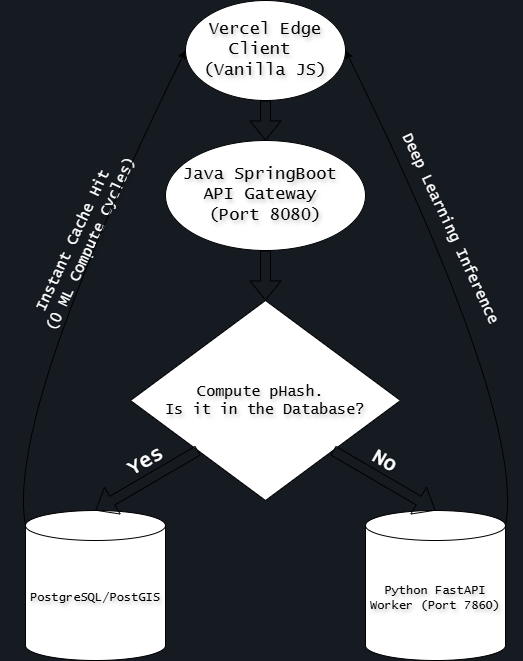
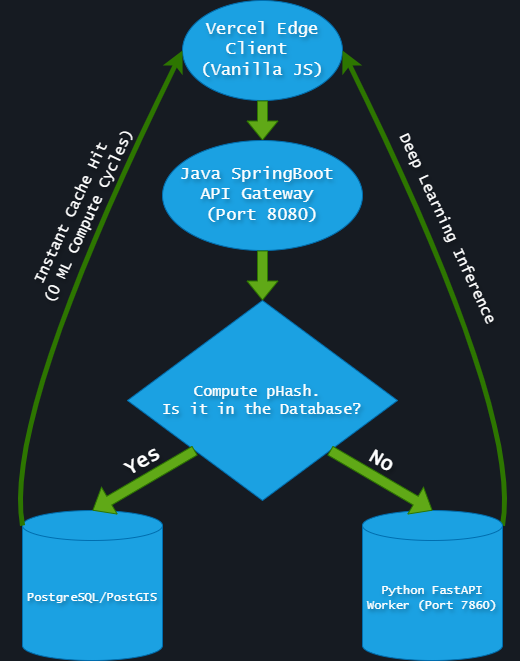
More and more fixes as testing is being done locally

diff --git a/frontend/assets/js/scanner.js b/frontend/assets/js/scanner.js
@@ -24,18 +24,30 @@ async function previewAndUpload(event) {
     formData.append("file", file);
 
     try {
-        // Pointing to the live cloud Edge Engine
-        const response = await fetch("https://ishansinha05-optichash-engine.hf.space/process", {
+        // [DEV MODE]: Pointing to the local Java Spring Boot Gateway
+        const response = await fetch("http://localhost:8080/process", {
             method: "POST",
             body: formData
         });
+        
+        // [PROD MODE]: Pointing to the live cloud Edge Engine
+        // const response = await fetch("https://ishansinha05-optichash-engine.hf.space/process", {
+        //     method: "POST",
+        //     body: formData
+        // });
         
         const data = await response.json();
         console.log("Gateway Response:", data);
 
         if (data.status === "success") {
             // Display title if available, otherwise display the raw model class ID
-            const matchName = (data.title !== undefined) ? data.title : "Class ID " + data.predicted_id;
+            let matchName = "";
+            if (data.title !== undefined) {
+                matchName = data.title;
+            } else {
+                matchName = "Class ID " + data.predicted_id;
+            }
+
             resultsDiv.innerText = " MATCH FOUND: " + matchName;
             
             routeIndicator.innerText = "Optimization Route: " + data.optimization_route.toUpperCase() + "\nCompute Footprint Saved: " + data.compute_cycles_saved;
@@ -48,7 +60,6 @@ async function previewAndUpload(event) {
         } else if (data.status === "error") {
             let errorImageHtml = "";
             
-            // Check if the backend threw the threshold rejection (Low confidence)
             // Check if the backend threw the threshold rejection (Low confidence)
             if (data.message.includes("Low confidence")) {
                 errorImageHtml = `<img src="assets/images/confusedspidey.jpg" alt="Confused Spider-Man" style="display: block; margin: 0 auto 15px auto; max-width: 180px; border-radius: 8px; border: 2px solid #dc3545;"><br>`;

diff --git a/gateway-java/src/main/java/com/comicbookapp/gateway/GatewayController.java b/gateway-java/src/main/java/com/comicbookapp/gateway/GatewayController.java
@@ -2,7 +2,6 @@ package com.comicbookapp.gateway;
 
 import com.fasterxml.jackson.databind.JsonNode;
 import com.fasterxml.jackson.databind.ObjectMapper;
-import com.fasterxml.jackson.databind.node.ObjectNode;
 import org.springframework.beans.factory.annotation.Autowired;
 import org.springframework.http.*;
 import org.springframework.util.LinkedMultiValueMap;
@@ -11,10 +10,8 @@ import org.springframework.web.bind.annotation.*;
 import org.springframework.web.client.RestTemplate;
 import org.springframework.web.multipart.MultipartFile;
 
-import java.util.Map;
-
 @RestController
-@RequestMapping("/api")
+@CrossOrigin(origins = "http://localhost:3000")
 public class GatewayController {
 
     @Autowired
@@ -22,21 +19,12 @@ public class GatewayController {
 
     private final ObjectMapper mapper = new ObjectMapper();
 
-    // The Fast Lookup Map: Translates Python's integer matrix output into frontend Titles
-    private static final Map<Integer, String> COMIC_CLASS_MAP = Map.of(
-        0, "Absolute Martian Manhunter",
-        1, "Absolute Batman",
-        2, "Transformers (Variant Cover)",
-        3, "Ultimate Spider-Man",
-        4, "Ben 10" 
-    );
-
     // Internal Docker network addresses
     private final String CPP_BOUNCER_URL = "http://phash_bouncer:8081/api/analyze-cover";
-    private final String PYTHON_BRAIN_URL = "http://ml_vision:8000/process";
+    private final String PYTHON_BRAIN_URL = "http://ml-python:7860/process";
 
-    // Endpoint explicitly matches the fetch('/api/scan-cover') call in scanner.js
-    @PostMapping("/scan-cover")
+    // Endpoint explicitly updated to match the fetch('/process') call in scanner.js
+    @PostMapping("/process")
     public ResponseEntity<String> processComic(@RequestParam("file") MultipartFile file) {
         try {
             byte[] fileBytes = file.getBytes();
@@ -71,16 +59,8 @@ public class GatewayController {
             HttpEntity<MultiValueMap<String, Object>> pythonRequest = new HttpEntity<>(body, pythonHeaders);
             ResponseEntity<String> pythonResponse = restTemplate.postForEntity(PYTHON_BRAIN_URL, pythonRequest, String.class);
 
-            // 4. Translate Python's integer ID into a string title
-            JsonNode pythonJson = mapper.readTree(pythonResponse.getBody());
-            int predictedId = pythonJson.get("predicted_id").asInt();
-            String verifiedTitle = COMIC_CLASS_MAP.getOrDefault(predictedId, "Unknown Cover Detected");
-            
-            // 5. Inject the translated title back into the JSON payload for the frontend UI
-            ObjectNode responseNode = (ObjectNode) pythonJson;
-            responseNode.put("title", verifiedTitle);
-
-            return ResponseEntity.ok(responseNode.toString());
+            // 4. Proxy Python's response directly back to the frontend without modification
+            return ResponseEntity.ok(pythonResponse.getBody());
 
         } catch (Exception e) {
             e.printStackTrace();

diff --git a/ml-python/main.py b/ml-python/main.py
@@ -91,23 +91,23 @@ async def process_comic(file: UploadFile = File(...)):
 
         METADATA_DB = {
             "absolute_batman_annual_1": {
-                "title": "Absolute Batman #1", 
+                "title": "Absolute Batman Annual #1", 
                 "url": "https://leagueofcomicgeeks.com/comic/6092062/absolute-batman-2025-annual-1"
             },
             "absolute_martian_manhunter": {
-                "title": "Absolute Martian Manhunter #1", 
+                "title": "Absolute Martian Manhunter #8", 
                 "url": "https://leagueofcomicgeeks.com/comic/1616741/absolute-martian-manhunter-8"
             },
             "beta_ray_bill_tpb": {
-                "title": "Beta Ray Bill: Argent Star", 
+                "title": "Beta Ray Bill: Argent Star (TPB)", 
                 "url": "https://leagueofcomicgeeks.com/comic/8509698/beta-ray-bill-argent-star-tp?variant=8271107"
             },
             "nightwing_compendium_3": {
-                "title": "Nightwing Compendium Three", 
+                "title": "Nightwing: A Knight in Bludhaven (Compendium Three)", 
                 "url": "https://leagueofcomicgeeks.com/comic/3717786/nightwing-a-knight-in-bluedhaven-compendium-book-3-tp"
             },
             "transformers_4": {
-                "title": "Transformers #4", 
+                "title": "Transformers #4 (Variant Cover)", 
                 "url": "https://leagueofcomicgeeks.com/comic/4294159/transformers-4?variant=9647505"
             }
         }